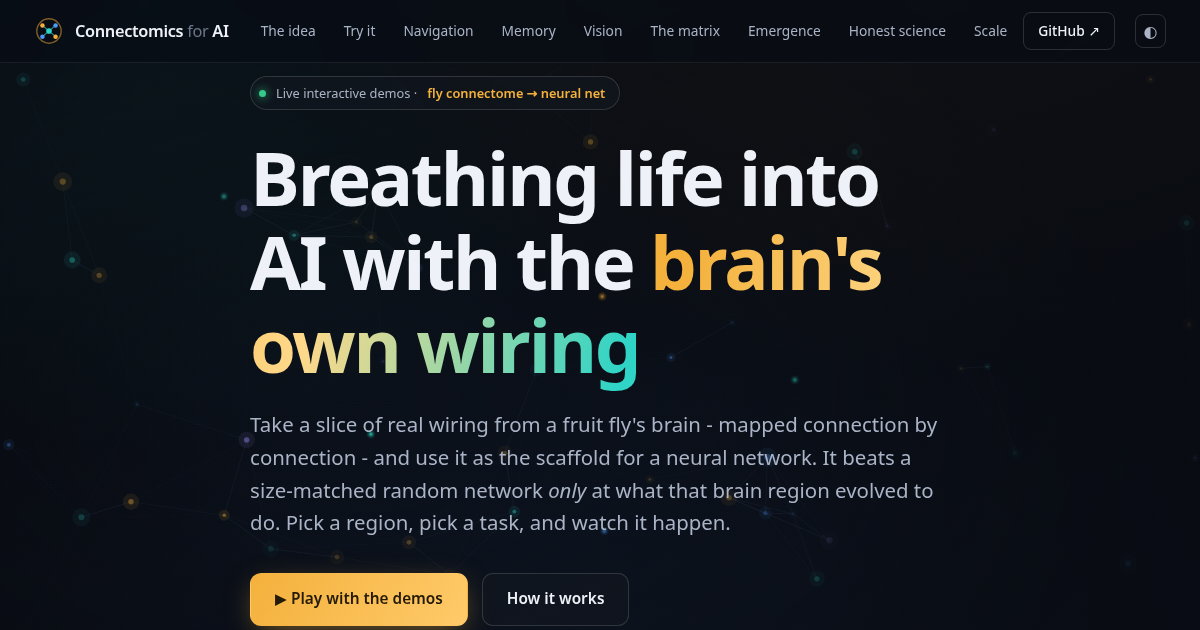
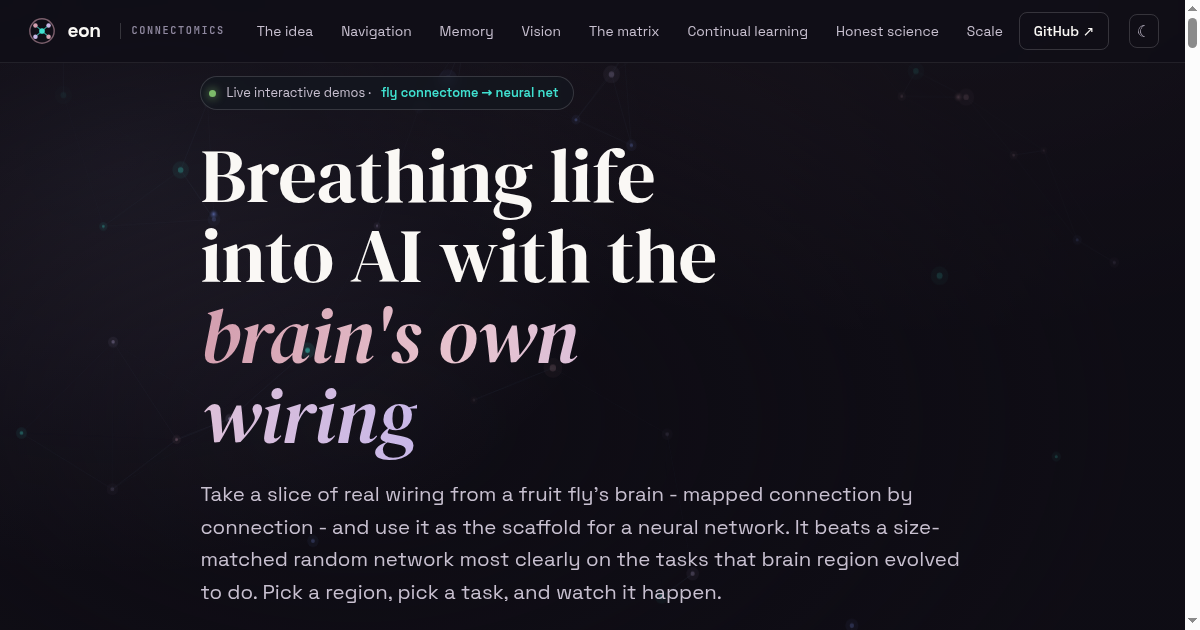
webdemo: refresh OG card to branded hero; slim Honest-science section; add economic-value argument
- Regenerated assets/og.png (1200x630) from the new branded hero; bumped og/twitter
  image meta to ?v=2 to bust stale social caches.
- Slimmed 'Where the prior does not help': dropped the control-hierarchy card and
  condensed the reproduction paragraph (kept the chart + limitations).
- Added a conditional economic-value argument to the Scale section (connectome as a
  reusable, mapped-once prior for the parts of intelligence more scale hasn't solved).

diff --git a/webdemo/index.html b/webdemo/index.html
@@ -10,12 +10,12 @@
 <meta property="og:type" content="website">
 <meta property="og:title" content="Connectome-Inspired AI Models - interactive demos">
 <meta property="og:description" content="A fruit-fly brain's wiring, used as an AI prior. It beats a size-matched random network most clearly on the tasks that brain region evolved to do. Play with the live demos.">
-<meta property="og:image" content="https://ai.eon.systems/assets/og.png">
+<meta property="og:image" content="https://ai.eon.systems/assets/og.png?v=2">
 <meta property="og:url" content="https://ai.eon.systems/">
 <meta name="twitter:card" content="summary_large_image">
 <meta name="twitter:title" content="Connectome-Inspired AI Models - interactive demos">
 <meta name="twitter:description" content="A fruit-fly brain's wiring as an AI prior - it wins most clearly on the jobs it evolved for. Live, playable demos.">
-<meta name="twitter:image" content="https://ai.eon.systems/assets/og.png">
+<meta name="twitter:image" content="https://ai.eon.systems/assets/og.png?v=2">
 <meta name="theme-color" content="#0F0D15">
 <link rel="preconnect" href="https://fonts.googleapis.com">
 <link rel="preconnect" href="https://fonts.gstatic.com" crossorigin>
@@ -468,7 +468,7 @@
     <div class="grid grid-2 reveal" style="margin-top:34px;align-items:center">
       <div>
         <h4 style="font-size:1rem">Add the matched-random control → the edge vanishes</h4>
-        <p style="font-size:.92rem;color:var(--text-dim)">The original comparison changed two things at once - connectome-vs-random <em>and</em> recurrent-vs-feedforward - so its edge on CIFAR-10 couldn't be credited to the wiring alone. Put a random matrix in the <em>exact same architecture</em> and the connectome's advantage on generic image classification evaporates: a matched random-sparse network in fact <em>edges it</em> on both MNIST (0.967 vs 0.965) and CIFAR-10 (0.491 vs 0.468), and a dense trainable matrix beats them all. MNIST still reproduces cleanly (~97%); the underlying work is real. The lesson: a connectome helps only when the task matches the computation its circuitry evolved to perform.</p>
+        <p style="font-size:.92rem;color:var(--text-dim)">The original result changed two things at once - connectome-vs-random <em>and</em> recurrent-vs-feedforward - so its edge couldn't be pinned on the wiring. Put a random matrix in the <em>same architecture</em> and the advantage on generic image classification is gone: matched random-sparse actually <em>edges</em> the connectome on MNIST (0.967 vs 0.965) and CIFAR-10 (0.491 vs 0.468). A connectome helps only when the task matches the computation its circuitry evolved for.</p>
         <div class="pillrow" style="margin-top:14px">
           <span class="pill">MNIST: connectome <b>0.965</b> vs random <b>0.967</b></span>
           <span class="pill">CIFAR-10: connectome <b>0.468</b> vs random <b>0.491</b></span>
@@ -479,16 +479,6 @@
         <h4 style="font-size:1rem;margin-bottom:6px">Same architecture, connectome vs random</h4>
         <div id="bpu-bars"></div>
         <figcaption>Real reproduction numbers. On generic image classification the connectome does not win - random sparse matches or edges it, and dense trainable leads. The special ingredient lives in the architecture around the matrix, not the fly's specific wiring.</figcaption>
-      </div>
-    </div>
-
-    <div class="card reveal" style="margin-top:30px">
-      <h4 style="font-size:1rem;margin-bottom:14px">The control hierarchy - how we know it's really the topology</h4>
-      <div class="grid grid-4" style="gap:16px">
-        <div><div class="mono" style="color:var(--bio);font-size:1.2rem">connectome ≈ weight-shuffle</div><p style="font-size:.85rem;color:var(--text-dim);margin:6px 0 0">Keep the exact wiring, permute the weights, and the win survives → the <b>graph</b> carries it, not the synaptic strengths.</p></div>
-        <div><div class="mono" style="color:var(--ctrl);font-size:1.2rem">≫ random &amp; degree</div><p style="font-size:.85rem;color:var(--text-dim);margin:6px 0 0">Break the wiring - even keeping each neuron's degree - and it falls 9-16 points on MQAR.</p></div>
-        <div><div class="mono" style="color:var(--red);font-size:1.2rem">no-recurrence → chance</div><p style="font-size:.85rem;color:var(--text-dim);margin:6px 0 0">Zero the recurrent path and it collapses (~0.12 on seq-MNIST), proving the recurrence is load-bearing.</p></div>
-        <div><div class="mono" style="color:var(--blue);font-size:1.2rem">frozen vs trainable</div><p style="font-size:.85rem;color:var(--text-dim);margin:6px 0 0">Trainable helps the CX (tune one attractor); frozen helps MB continual (protect memories). The verdict tracks the task, not the region.</p></div>
       </div>
     </div>
 
@@ -548,6 +538,7 @@
     <div class="card glow reveal center" style="margin-top:40px;padding:44px">
       <p class="pull" style="margin:0 auto"><span class="grad">Fidelity is a third axis of AI progress</span>, alongside scale and data.</p>
       <p style="color:var(--text-dim);max-width:70ch;margin:22px auto 0">AI has scaled along two axes, model size and data. Wiring fidelity is a third: matched to the task a region evolved for, the connectome holds a measured, control-verified edge a size- and degree-matched random network never reaches. As reconstructions improve from fly to mouse to primate, each becomes a pretrained prior aimed at where large models are weakest - on-device robot control, low-power navigation, event-camera vision, and learning from thin data without forgetting.</p>
+      <p style="color:var(--text-dim);max-width:70ch;margin:18px auto 0">That reframes what a connectome is worth. At the margin, scale and data are getting expensive - and they buy the least on the problems the physical world runs on: sample-efficient control, learning that doesn't forget, useful behaviour on a few watts. A validated, brain-derived prior is a different kind of asset - mapped once, inherited by many systems - and the cost to reconstruct a mouse or human circuit is large but finite, and falling every year. If the small, control-verified edge we measure in the fly holds as fidelity climbs, then collecting these circuits is a rational bet: paying once for a reusable prior aimed at the parts of intelligence that more scale hasn't solved.</p>
     </div>
   </div>
 </section>
